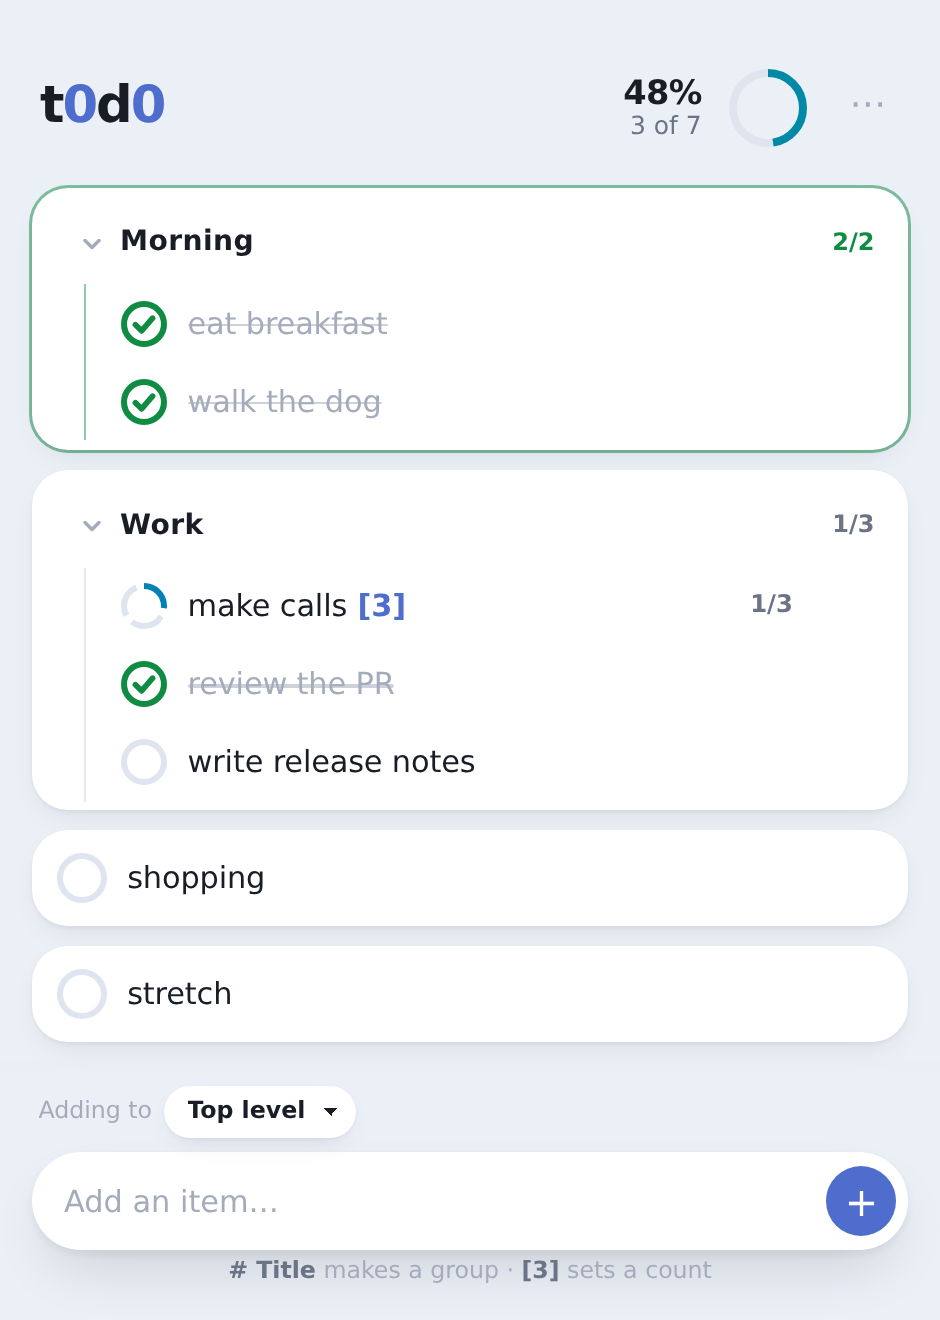
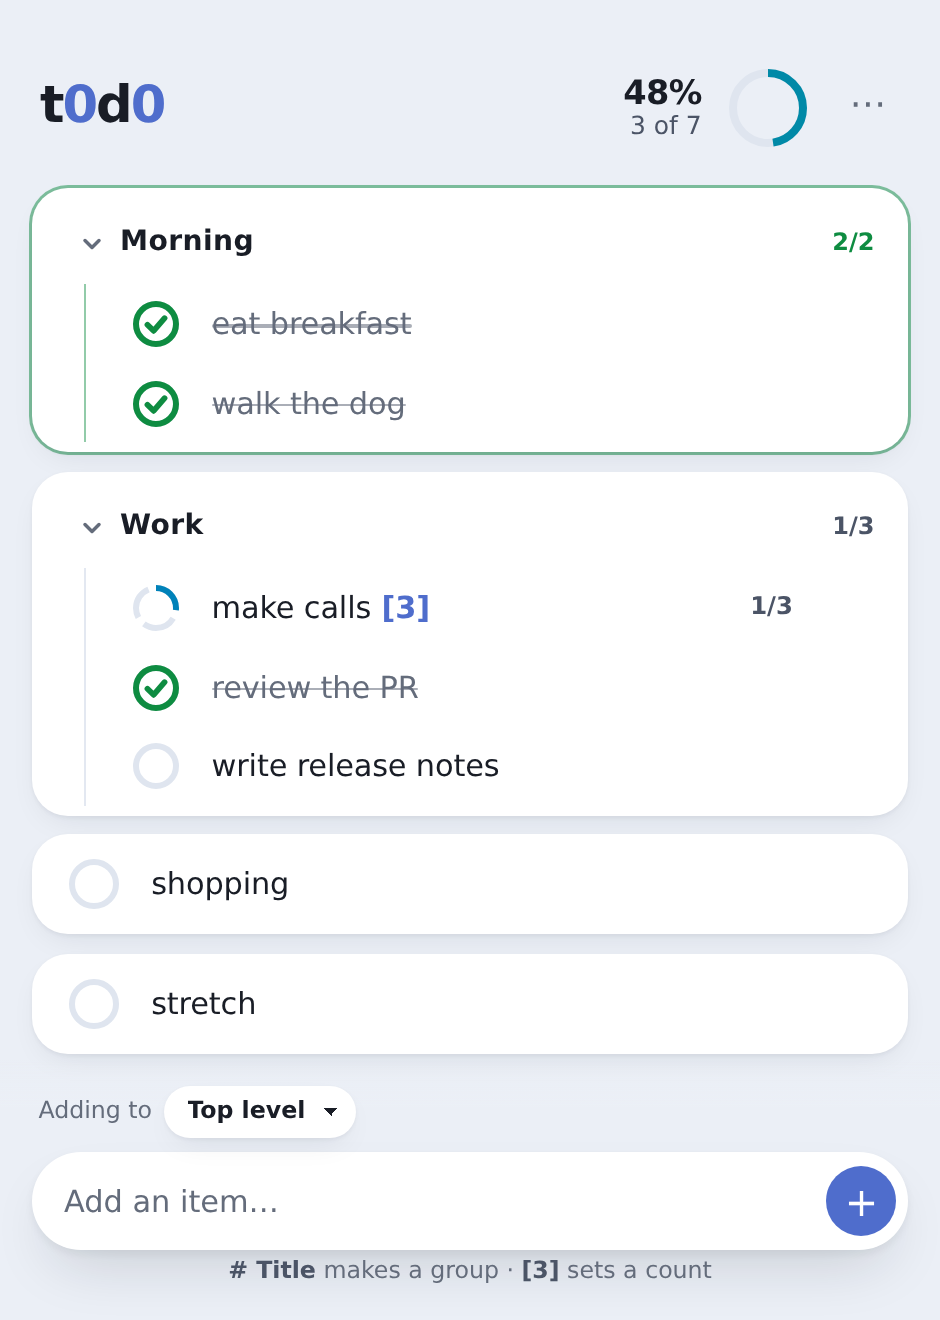
build: add npm run screenshots, and regenerate them

diff --git a/eslint.config.js b/eslint.config.js
@@ -26,11 +26,24 @@ export default defineConfig([
     rules: { "@typescript-eslint/no-non-null-assertion": "off" },
   },
   {
-    // Build-time Node script: no DOM, and no type information to hang rules off.
+    /*
+     * Build-time Node scripts, with no type information to hang rules off. They
+     * also contain page.evaluate callbacks, which run in the browser — hence
+     * both sets of globals in one place.
+     */
     files: ["scripts/**/*.mjs", "eslint.config.js"],
     extends: [tseslint.configs.disableTypeChecked],
     languageOptions: {
-      globals: { console: "readonly", Buffer: "readonly", process: "readonly" },
+      globals: {
+        console: "readonly",
+        Buffer: "readonly",
+        process: "readonly",
+        fetch: "readonly",
+        setTimeout: "readonly",
+        document: "readonly",
+        localStorage: "readonly",
+        getComputedStyle: "readonly",
+      },
     },
     rules: { "no-console": "off" },
   },

diff --git a/CLAUDE.md b/CLAUDE.md
@@ -71,6 +71,8 @@ npm test           # vitest, unit + DOM
 npm run test:coverage  # the same, with the thresholds CI enforces
 npm run test:e2e   # playwright
 npm run lint       # eslint
+npm run icons      # regenerate the favicon and PWA icons
+npm run screenshots  # regenerate the README screenshots from the built app
 npm run check      # lint + typecheck + test — what CI runs
 ```
 
@@ -113,6 +115,25 @@ yourself rebuilding `innerHTML`, stop; that is the bug this file prevents.
   `vite.config.ts` and CI enforces them.
 - Every animation must have a `prefers-reduced-motion` path that still lands in a finished
   visual state — reduced motion means instant, not absent.
+
+## Keeping the README honest
+
+Two committed artefacts are generated from the app, not drawn by hand, and
+nothing in CI checks that they are current — so they are your job:
+
+- **Run `npm run screenshots` whenever the list changes how it looks.** That
+  means any edit to `src/styles/**` (especially the palette tokens), to the row
+  or group markup, or to spacing in the list. The script builds, serves, and
+  captures both themes into `.github/`. It is deterministic: re-running with no
+  visual change rewrites the same bytes, so it never creates a noisy diff.
+- **Run `npm run icons` if the ring mark changes.**
+
+A screenshot diff is not worth gating in CI — across machines it is all font
+antialiasing and no signal — which is exactly why it has to be a habit here.
+
+Also treat these README claims as facts that rot, and check them when they
+change: the gzipped bundle size (badge and prose), the scripts table, the
+keyboard table, and the module map under "How it's built".
 
 ## Conventions
 

diff --git a/README.md b/README.md
@@ -87,6 +87,7 @@ npm run dev
 | `npm run lint`          | ESLint                                                                              |
 | `npm run format`        | Prettier                                                                            |
 | `npm run icons`         | regenerate the favicon and PWA icons                                                |
+| `npm run screenshots`   | regenerate the README screenshots from the built app                                |
 | **`npm run check`**     | **lint + typecheck + test — the gate CI runs**                                      |
 
 Node version is pinned in [`.nvmrc`](./.nvmrc).
